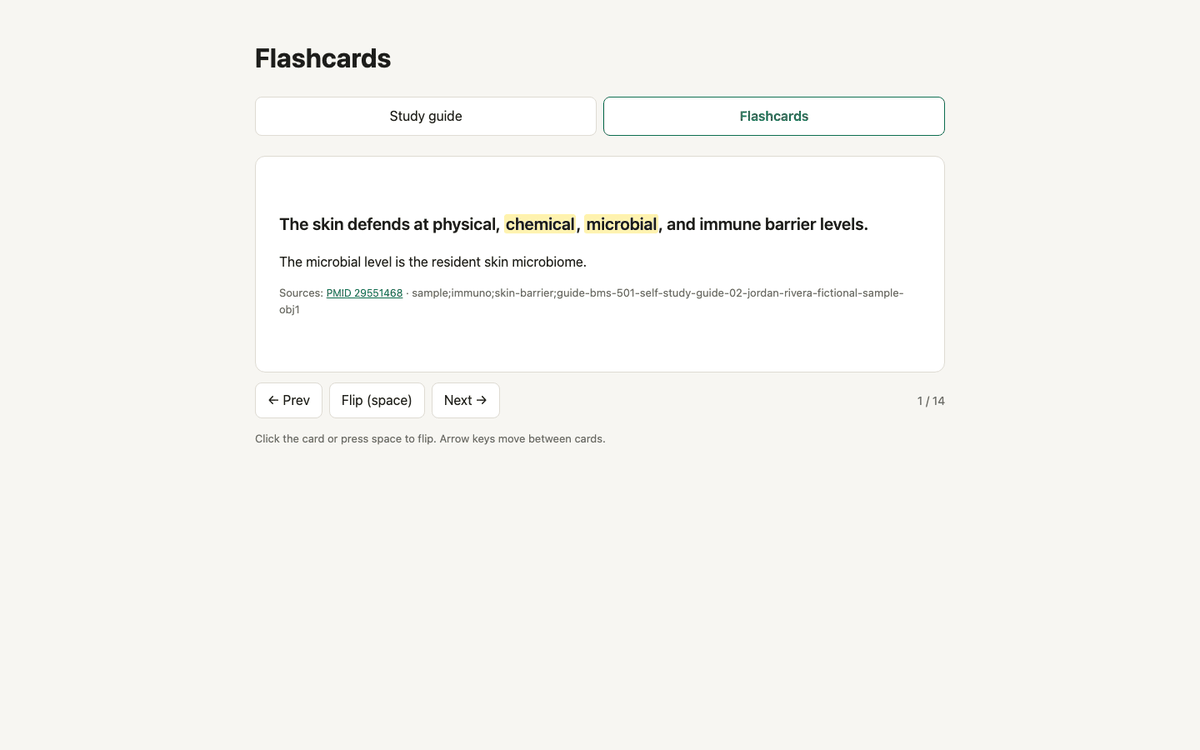
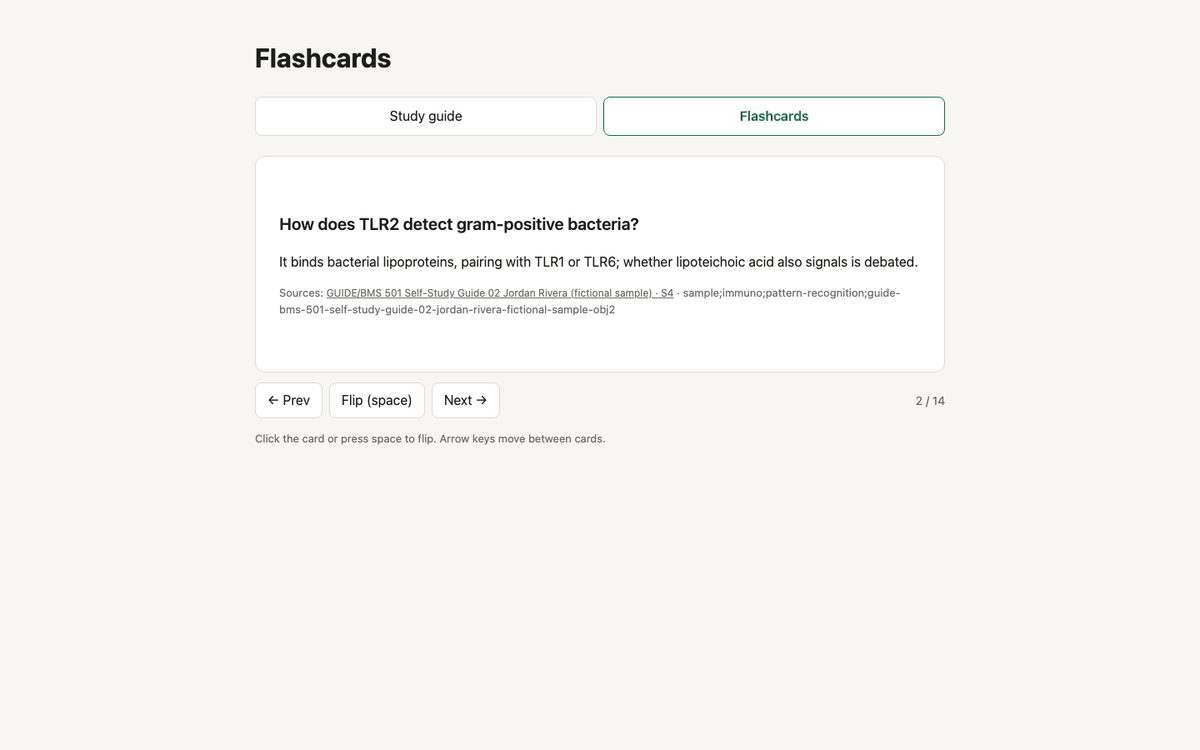
docs: distinct front-of-card screenshot; reconcile flashcards timing (review round 2)
Card 1 of the clean deck is a cloze card, so the "front" shot duplicated the cloze shot.
The front/flipped pair now shows a basic card with a case-guide citation. A test fails on
duplicate screenshots. The flashcards time is a range over the two clean runs.

Claude-Session: https://claude.ai/code/session_01CiCbeYj6Hrx9M7oV4Xasmr

Changed region(s): [[0.2158, 0.276, 0.7708, 0.4293]]

diff --git a/tests/test_repo_links.py b/tests/test_repo_links.py
@@ -97,3 +97,12 @@ def test_demo_walkthrough_shows_every_screenshot_and_keeps_them_small():
     for target in LINK.findall(walkthrough):
         if not re.match(r"[a-z]+:", target):
             assert (ROOT / "docs" / target).exists(), target
+
+
+def test_demo_screenshots_are_all_different():
+    import hashlib
+    seen = {}
+    for png in sorted((ROOT / "docs" / "img" / "demo").glob("*.png")):
+        digest = hashlib.sha256(png.read_bytes()).hexdigest()
+        assert digest not in seen, f"{png.name} duplicates {seen[digest]}"
+        seen[digest] = png.name

diff --git a/docs/DEMO-WALKTHROUGH.md b/docs/DEMO-WALKTHROUGH.md
@@ -19,7 +19,7 @@ The times are what the machine took, not what you will say; talk over the waitin
 | `/ingest sample` | 88 s |
 | `/study-guide sample` | 3 to 4 min (196 s and 243 s on two runs) |
 | `check.py` on the guide, then on the cards | under 1 s each (PubMed lookups included) |
-| `/flashcards sample 14` | 97 s, then `export.py` in under 1 s |
+| `/flashcards sample 14` | 97 to 152 s on two clean runs, then `export.py` in under 1 s |
 | `/quiz sample 3`, first question | 33 s |
 | `/vignette sample 2`, first question | 87 s, then 7 to 40 s per turn |
 | Asking the discrepancy question | 32 s |
